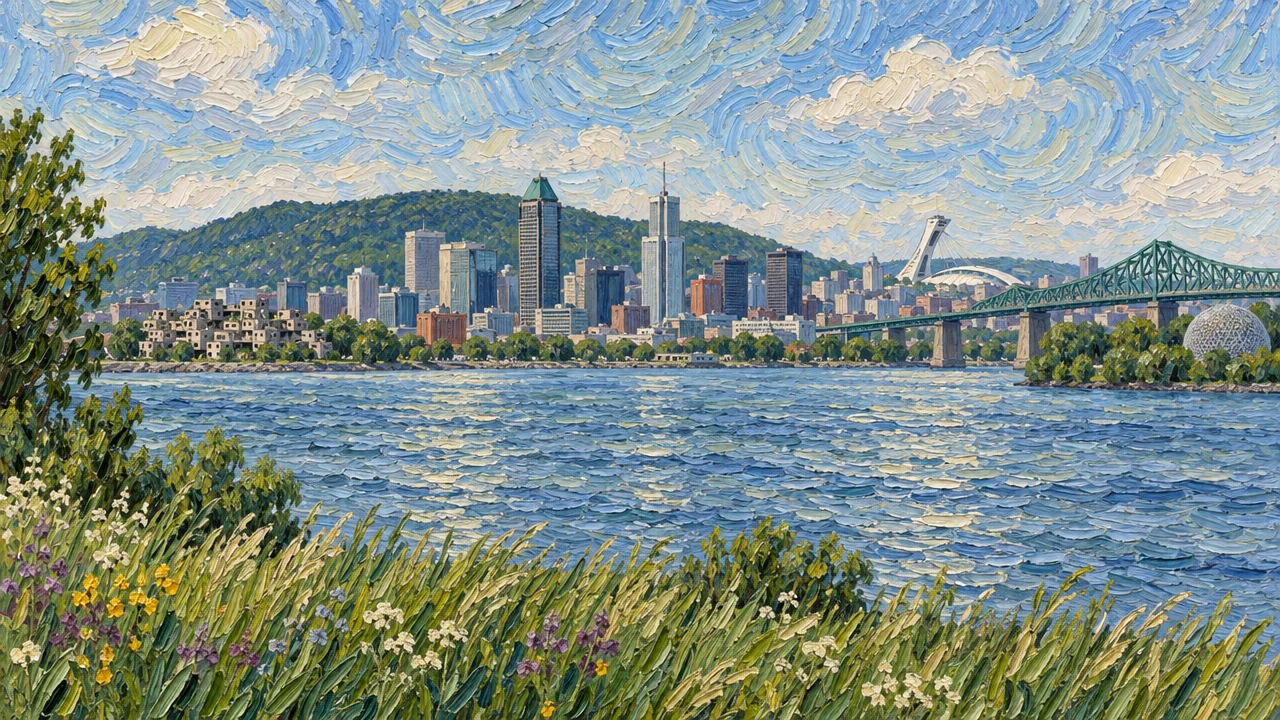
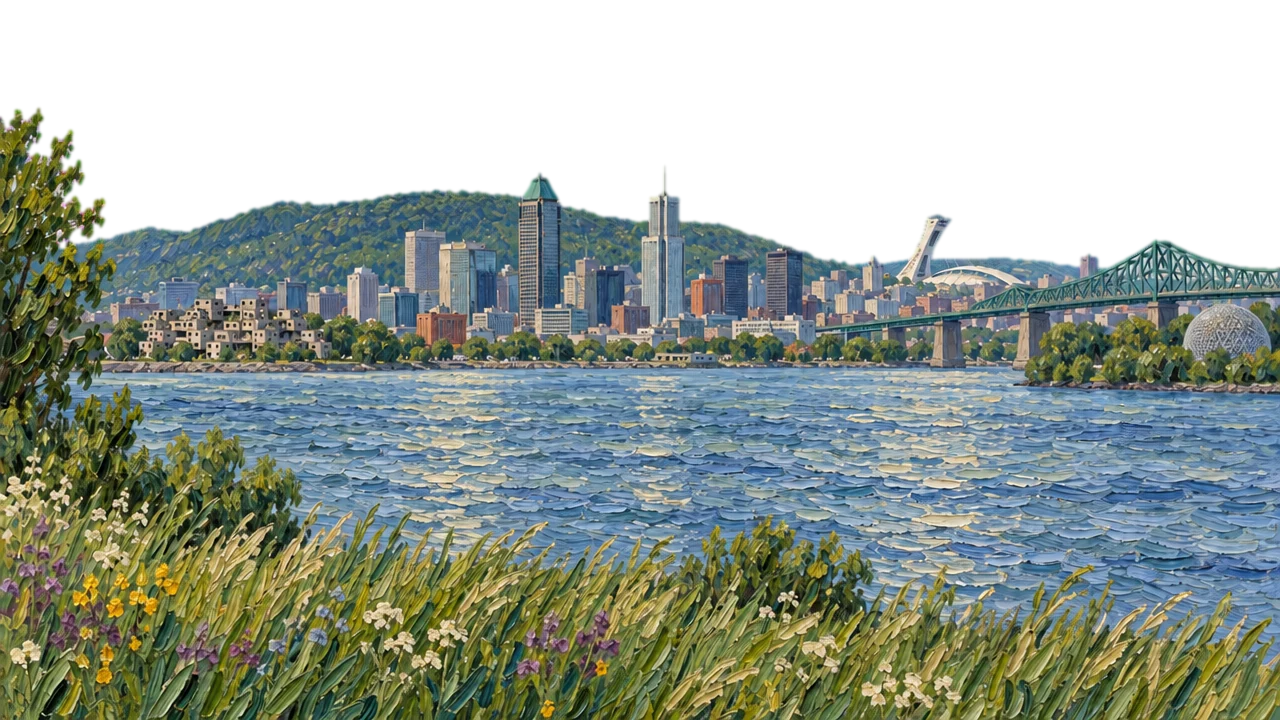
Live sky behind the Montreal painting; widget names only in settings
The city keeps its painting, but its sky is cut out and the live painted sky
(clouds, sun, moon, stars) shows through. The day painting takes the light of
the hour and hands over smoothly to the night painting; the river mirrors the
sky and live grass sways in front. Widget names now show only while the
widget's settings are open.

diff --git a/js/scene/engine.js b/js/scene/engine.js
@@ -105,6 +105,9 @@ uniform float uNight, uDay, uCover, uDrift, uT;
 uniform float uKind, uWave;
 uniform vec3 uPDay[13], uPNight[13];
 uniform float uGlow[13];
+uniform sampler2D uPlA, uPlB;            // painted plates: day and night, the sky cut out in alpha
+uniform float uImgAspect, uWarm, uPlFade;
+uniform vec4 uBand;                      // image v: sky ends, water starts, water ends, grass starts
 out vec4 o;
 vec3 overlay(vec3 b, float a){ return mix(2. * a * b, 1. - 2. * (1. - a) * (1. - b), step(.5, b)); }
 float fbm(vec2 p){ float v = 0., a = .5; for (int i = 0; i < 4; i++){ v += a * vnoise(p); p = p * 2.03 + 17.; a *= .5; } return v; }
@@ -121,6 +124,31 @@ vec3 orb(vec3 c, vec3 o, float R, vec2 p, float fr, vec3 a, vec3 b, vec3 e, vec3
   }
   return c;
 }
+vec3 skyCol(vec2 p, float y, float fr){
+  vec3 g = y < .42 ? mix(uS1, uS2, y / .42) : mix(uS2, uS3, clamp((y - .42) / .28, 0., 1.));
+  vec3 c = overlay(g, fr);
+  vec2 sc = floor(p / 38.); vec4 sh = hash4(sc + 5.1);
+  float star = step(.72, sh.z) * smoothstep(1.5 + sh.w, .2, length(p - (sc + .15 + sh.xy * .7) * 38.)) * (.65 + .35 * sin(uT * 2. + sh.w * 30.));
+  float R = clamp(uRes.x * .035, 34., 54.);
+  c = orb(c, uSun, R, p, fr, vec3(1., .84, .47), vec3(.97, .63, .27), vec3(.89, .41, .2), vec3(1., .74, .43) * .5);
+  c = orb(c, uMoon, R * .9, p, fr, vec3(1., .99, .93), vec3(.93, .9, .81), vec3(.78, .76, .67), vec3(1., .98, .88) * .16);
+  float mask = smoothstep(uRes.y * .64, uRes.y * .4, p.y);
+  if (mask > 0.){
+    vec2 cp = p - vec2(uDrift, 0.);
+    float thr = mix(.64, .3, uCover), d0 = fbm(cp / vec2(340., 110.));
+    if (d0 > thr - .1){
+      vec3 s = stroke(cp, vec2(46., 12.), 9.);
+      float a = smoothstep(thr, thr + .05 + uCover * .08, d0 + (s.x - .5) * .08) * mask;
+      float d1 = fbm((cp - vec2(0., 16.)) / vec2(340., 110.));
+      float shade = clamp((d0 - d1) * 4.5 + .62, 0., 1.);
+      vec3 light = mix(uS2 * 1.2 + .1, vec3(.98, .97, .95), uDay * .8), dark = mix(uS1 * 1.1, vec3(.62, .64, .7), uDay * .7);
+      c = mix(c, mix(dark, light, shade) * (.95 + s.x * .09), a * .92);
+      star *= 1. - a;
+    }
+  }
+  c += star * uNight * vec3(1., .98, .9);
+  return c;
+}
 void main(){
   vec4 f = texelFetch(uField, ivec2(gl_FragCoord.xy), 0);
   vec2 p = vec2(gl_FragCoord.x, uRes.y * uScale - gl_FragCoord.y) / uScale;
@@ -128,29 +156,41 @@ void main(){
   float code = floor(f.b * 255. + .5), m = mod(code, 16.), win = mod(floor(code / 16.), 2.), wat = floor(code / 32.);
   bool skyPix = uKind < .5 ? layer < .5 : m < .5;
   vec3 c;
-  if (skyPix){
-    vec3 g = y < .42 ? mix(uS1, uS2, y / .42) : mix(uS2, uS3, clamp((y - .42) / .28, 0., 1.));
-    c = overlay(g, f.r);
-    vec2 sc = floor(p / 38.); vec4 sh = hash4(sc + 5.1);
-    float star = step(.72, sh.z) * smoothstep(1.5 + sh.w, .2, length(p - (sc + .15 + sh.xy * .7) * 38.)) * (.65 + .35 * sin(uT * 2. + sh.w * 30.));
-    float R = clamp(uRes.x * .035, 34., 54.);
-    c = orb(c, uSun, R, p, f.r, vec3(1., .84, .47), vec3(.97, .63, .27), vec3(.89, .41, .2), vec3(1., .74, .43) * .5);
-    c = orb(c, uMoon, R * .9, p, f.r, vec3(1., .99, .93), vec3(.93, .9, .81), vec3(.78, .76, .67), vec3(1., .98, .88) * .16);
-    float mask = smoothstep(uRes.y * .64, uRes.y * .4, p.y);
-    if (mask > 0.){
-      vec2 cp = p - vec2(uDrift, 0.);
-      float thr = mix(.64, .3, uCover), d0 = fbm(cp / vec2(340., 110.));
-      if (d0 > thr - .1){
-        vec3 s = stroke(cp, vec2(46., 12.), 9.);
-        float a = smoothstep(thr, thr + .05 + uCover * .08, d0 + (s.x - .5) * .08) * mask;
-        float d1 = fbm((cp - vec2(0., 16.)) / vec2(340., 110.));
-        float shade = clamp((d0 - d1) * 4.5 + .62, 0., 1.);
-        vec3 light = mix(uS2 * 1.2 + .1, vec3(.98, .97, .95), uDay * .8), dark = mix(uS1 * 1.1, vec3(.62, .64, .7), uDay * .7);
-        c = mix(c, mix(dark, light, shade) * (.95 + s.x * .09), a * .92);
-        star *= 1. - a;
-      }
-    }
-    c += star * uNight * vec3(1., .98, .9);
+  if (uKind > 1.5){
+    // a painted plate covers the screen; where its alpha is clear the live sky shows through
+    float sa = uRes.x / uRes.y;
+    vec2 k = sa > uImgAspect ? vec2(1., uImgAspect / sa) : vec2(sa / uImgAspect, 1.);
+    vec2 uv = (p / uRes - .5) * k + vec2(.5, .5 + (1. - k.y) * .2);
+    float v = uv.y, t = uT;
+    // the river: inside its band, and only where the day painting is blue (not the bushes on the bank)
+    vec3 d0 = texture(uPlA, uv).rgb;
+    float watM = smoothstep(uBand.y, uBand.y + .02, v) * smoothstep(uBand.z, uBand.z - .03, v)
+               * smoothstep(.0, .08, d0.b - max(d0.r, d0.g) + .03);
+    float rip = sin(v * 380. - t * 2.2 + vnoise(uv * vec2(14., 60.)) * 6.) * .5 + (vnoise(vec2(uv.x * 40. - t * .5 * (.4 + uWave), v * 160.)) - .5);
+    uv += watM * vec2(rip * .003 * (.6 + uWave), rip * .001);
+    float gr = clamp((v - uBand.w) / (1. - uBand.w), 0., 1.);
+    float gust = sin(t * 1.7 + uv.x * 9.) * .55 + sin(t * .61 + uv.x * 3.1) * .45;
+    uv.x += gr * gr * (uWave * (.35 + .45 * gust) + .06 * sin(t * 1.3 + uv.x * 4.)) * .006;   // a gentle sway; the live blades carry the motion
+    uv = clamp(uv, vec2(.001), vec2(.999));
+    vec4 A = texture(uPlA, uv), B = texture(uPlB, uv);
+    float nw = smoothstep(.05, .75, uNight);
+    float land = smoothstep(.25, .75, mix(A.a, B.a, nw)) * uPlFade;
+    // the day painting follows the light of the hour; the night painting takes over as the sky darkens
+    vec3 tint = uS3 / max(.001, max(uS3.r, max(uS3.g, uS3.b)));
+    vec3 dc = A.rgb * mix(vec3(1.), tint, uWarm * .5);
+    float dl = dot(dc, vec3(.2126, .7152, .0722));
+    vec3 dayC = mix(vec3(dl), dc, uSat) * (.6 + .4 * uLight);   // softer than the meadow: the painting stays readable at dusk
+    vec3 lc = mix(dayC, B.rgb, nw);
+    // the river also mirrors the live sky, so it moves with the clouds and colours of the hour
+    float yy = clamp(.5 - (v - uBand.y) * 1.2, 0., 1.);
+    vec3 g = yy < .42 ? mix(uS1, uS2, yy / .42) : mix(uS2, uS3, clamp((yy - .42) / .28, 0., 1.));
+    float r2 = vnoise(vec2(p.x / 23. - t * .6, p.y / 1.6));
+    lc = mix(lc, g * (.75 + r2 * .3), watM * .25);
+    lc += watM * smoothstep(.8, .96, vnoise(vec2(uv.x * 260. + t * 1.4, v * 700.))) * .1 * mix(vec3(1., .95, .8), vec3(.9, .85, .6), uNight);
+    c = land > .001 ? lc : vec3(0.);
+    if (land < .999) c = mix(skyCol(p, y, f.r), lc, land);
+  } else if (skyPix){
+    c = skyCol(p, y, f.r);
   } else if (uKind < .5){
     vec3 base = layer < 1.5 ? vec3(.463, .573, .518) : layer < 2.5 ? vec3(.259, .369, .251) : vec3(.18, .29, .133);
     c = mix(base + (f.g - .5) * .22, vec3(.78, .75, .59), f.a * .07);
@@ -188,41 +228,6 @@ void main(){
     }
   }
   c = grade(c, p.y) + (hash1(gl_FragCoord.xy) - .5) * .03;
-  o = vec4(c, 1.);
-}`;
-
-// a painted plate: two images of the same view (say day and sunset) faded into each other, with the sky,
-// the river and the grass moved a little by time and wind. uBand: sky ends, water starts, water ends, grass starts (image v)
-const FS_PLATE = GLSL_COMMON + `
-uniform sampler2D uA, uB;
-uniform float uMix, uImgAspect, uT, uWind, uDir, uFade;
-uniform vec4 uBand;
-uniform vec3 uBg;
-out vec4 o;
-void main(){
-  vec2 p = vec2(gl_FragCoord.x, uRes.y * uScale - gl_FragCoord.y) / uScale;
-  // cover the screen, centred, a touch toward the bottom so the grass is never cut
-  float sa = uRes.x / uRes.y;
-  vec2 k = sa > uImgAspect ? vec2(1., uImgAspect / sa) : vec2(sa / uImgAspect, 1.);
-  vec2 uv = (p / uRes - .5) * k + vec2(.5, .5 + (1. - k.y) * .2);
-  float v = uv.y, t = uT;
-  // sky: the brush strokes breathe and drift very slowly
-  float skyM = smoothstep(uBand.x, uBand.x - .07, v);
-  uv += skyM * (vec2(vnoise(uv * vec2(5., 9.) + vec2(t * .05, 0.)), vnoise(uv * vec2(6., 8.) + 11. - vec2(0., t * .04))) - .5) * .006;
-  // water: ripples that run with the wind
-  float watM = smoothstep(uBand.y, uBand.y + .02, v) * smoothstep(uBand.z, uBand.z - .03, v);
-  float rip = sin(v * 420. - t * 1.6 + vnoise(uv * vec2(14., 60.)) * 6.) * .5 + (vnoise(vec2(uv.x * 40. - t * .35 * (.4 + uWind), v * 160.)) - .5);
-  uv += watM * vec2(rip * .0016 * (.6 + uWind), rip * .0007);
-  // grass: sways in gusts, more toward the tips at the bottom of the picture
-  float gr = clamp((v - uBand.w) / (1. - uBand.w), 0., 1.);
-  float gust = sin(t * 1.7 + uv.x * 9.) * .55 + sin(t * .61 + uv.x * 3.1) * .45;
-  uv.x += gr * (1. - gr * .55) * (uDir * uWind * (.35 + .45 * gust) + .08 * sin(t * 1.3 + uv.x * 23.)) * .012;
-  uv = clamp(uv, vec2(.001), vec2(.999));
-  vec3 c = mix(texture(uA, uv).rgb, texture(uB, uv).rgb, uMix);
-  // glints on the water
-  float glint = smoothstep(.78, .95, vnoise(vec2(uv.x * 260. + t * 1.2, v * 700.))) * watM;
-  c += glint * .12 * vec3(1., .96, .85) * dot(c, vec3(.33));
-  c = grade(mix(uBg, c, uFade), p.y) + (hash1(gl_FragCoord.xy) - .5) * .02;
   o = vec4(c, 1.);
 }`;
 
@@ -321,7 +326,7 @@ export function createEngine(cv){
   };
   let P;
   try{
-    P = {field: program(VS_FULL, FS_FIELD), fieldMask: program(VS_FULL, FS_FIELD_MASK), main: program(VS_FULL, FS_MAIN), blade: program(VS_BLADE, FS_BLADE), dab: program(VS_DAB, FS_DAB), fall: program(VS_FALL, FS_FALL), plate: program(VS_FULL, FS_PLATE)};
+    P = {field: program(VS_FULL, FS_FIELD), fieldMask: program(VS_FULL, FS_FIELD_MASK), main: program(VS_FULL, FS_MAIN), blade: program(VS_BLADE, FS_BLADE), dab: program(VS_DAB, FS_DAB), fall: program(VS_FALL, FS_FALL)};
   }catch(e){ console.warn('Dayscape: WebGL shaders failed, showing the plain sky.', e); return null; }
 
   const buf = (data, usage = gl.STATIC_DRAW) => { const b = gl.createBuffer(); gl.bindBuffer(gl.ARRAY_BUFFER, b); gl.bufferData(gl.ARRAY_BUFFER, data, usage); return b; };
@@ -343,7 +348,6 @@ export function createEngine(cv){
   let fieldTex = null, W = 0, H = 0, S = 1, cw = 0, ch = 0, scene = null, palette = null;
   // painted plates: one texture per plate name, loaded when the scene is set; mix says which two show
   let plates = {}, plateFor = null, plateFade = 0;
-  const mix = {a: 'day', b: 'day', t: 0};
   function loadPlates(s){
     for (const t of Object.values(plates)) gl.deleteTexture(t);
     plates = {}; plateFade = 0; plateFor = s;
@@ -365,8 +369,17 @@ export function createEngine(cv){
       img.src = url;
     }
   }
+  const imgToY = v => {
+    const ia = scene?.aspect || 16 / 9, sa = W / H, ky = sa > ia ? ia / sa : 1;
+    return ((v - .5 - (1 - ky) * .2) / ky + .5) * H;
+  };
+  // live grass fills the painted grass band, thinner at its top edge
+  const plateGrass = (x, h) => { const b = scene?.bands?.grass; return b == null ? null : imgToY(b + .04) + Math.sin(x / 70) * 6; };
   const plateTex = name => plates[name] || plates.day || Object.values(plates)[0];
   const fbo = gl.createFramebuffer();
+  const blank = gl.createTexture();
+  gl.bindTexture(gl.TEXTURE_2D, blank);
+  gl.texImage2D(gl.TEXTURE_2D, 0, gl.RGBA8, 1, 1, 0, gl.RGBA, gl.UNSIGNED_BYTE, new Uint8Array(4));
 
   function upload(blades, dabs){
     blades.sort((a, b) => a[1] - b[1]);
@@ -416,7 +429,6 @@ export function createEngine(cv){
   // bake the stroke field for the current size and scene (the mask path arrives with the city scenes)
   function bake(){
     if (!W) return;
-    if (scene?.kind === 'plates'){ upload([], []); palette = paletteUniforms(null); return; }
     if (fieldTex) gl.deleteTexture(fieldTex);
     fieldTex = gl.createTexture();
     gl.bindTexture(gl.TEXTURE_2D, fieldTex);
@@ -426,6 +438,7 @@ export function createEngine(cv){
     gl.framebufferTexture2D(gl.FRAMEBUFFER, gl.COLOR_ATTACHMENT0, gl.TEXTURE_2D, fieldTex, 0);
     gl.viewport(0, 0, cw, ch);
     gl.disable(gl.BLEND);   // the last frame leaves blending on; the field must be written as-is
+    const isPlate = scene?.kind === 'plates';
     const mask = scene?.kind === 'mask' ? maskTexture() : null;
     if (mask){
       const f = P.fieldMask; common(f);
@@ -439,8 +452,9 @@ export function createEngine(cv){
       common(P.field); gl.bindVertexArray(empty); gl.drawArrays(gl.TRIANGLES, 0, 3);
     }
     gl.bindFramebuffer(gl.FRAMEBUFFER, null);
-    buildGrass(mask ? (x, h) => scene.grass?.(x, h, W) ?? null : meaY);
+    buildGrass(isPlate ? plateGrass : mask ? (x, h) => scene.grass?.(x, h, W) ?? null : meaY);
     palette = paletteUniforms(mask ? scene.palette : null);
+    if (isPlate) palette.kind = 2;
   }
 
   // the scene's material mask, drawn in CSS pixels and cleaned so every pixel holds exactly one material
@@ -497,28 +511,11 @@ export function createEngine(cv){
     }
   }
 
-  function drawPlate(dt){
-    const A = plateTex(mix.a), B = plateTex(mix.b) || A;
-    if (A) plateFade = Math.min(1, plateFade + (dt ? dt / .8 : 1));
-    const pr = P.plate; common(pr);
-    gl.activeTexture(gl.TEXTURE0); gl.bindTexture(gl.TEXTURE_2D, A || null); gl.uniform1i(pr.u('uA'), 0);
-    gl.activeTexture(gl.TEXTURE1); gl.bindTexture(gl.TEXTURE_2D, B || null); gl.uniform1i(pr.u('uB'), 1);
-    gl.activeTexture(gl.TEXTURE0);
-    const b = scene.bands || {};
-    gl.uniform4f(pr.u('uBand'), b.sky ?? .25, b.water?.[0] ?? 2, b.water?.[1] ?? 2, b.grass ?? 2);
-    gl.uniform1f(pr.u('uMix'), mix.t); gl.uniform1f(pr.u('uImgAspect'), scene.aspect || 16 / 9);
-    gl.uniform1f(pr.u('uT'), live.t); gl.uniform1f(pr.u('uWind'), live.wind); gl.uniform1f(pr.u('uDir'), live.dir);
-    gl.uniform1f(pr.u('uFade'), A ? plateFade : 0);
-    gl.uniform3fv(pr.u('uBg'), sky.s2.map(v => v / 255));
-    gl.bindVertexArray(empty); gl.drawArrays(gl.TRIANGLES, 0, 3);
-  }
-
   function draw(dt){
-    const isPlate = scene?.kind === 'plates';
-    if (!fieldTex && !isPlate) return;
+    if (!fieldTex) return;
     gl.viewport(0, 0, cw, ch);
     gl.disable(gl.BLEND);
-    if (isPlate) drawPlate(dt); else {
+    {
     const m = P.main; common(m);
     gl.activeTexture(gl.TEXTURE0); gl.bindTexture(gl.TEXTURE_2D, fieldTex); gl.uniform1i(m.u('uField'), 0);
     gl.uniform3fv(m.u('uS1'), sky.s1.map(v => v / 255)); gl.uniform3fv(m.u('uS2'), sky.s2.map(v => v / 255)); gl.uniform3fv(m.u('uS3'), sky.s3.map(v => v / 255));
@@ -526,7 +523,18 @@ export function createEngine(cv){
     gl.uniform1f(m.u('uNight'), sky.night); gl.uniform1f(m.u('uDay'), sky.day);
     gl.uniform1f(m.u('uCover'), live.cover); gl.uniform1f(m.u('uDrift'), live.drift); gl.uniform1f(m.u('uT'), live.rt);
     gl.uniform1f(m.u('uKind'), palette.kind); gl.uniform1f(m.u('uWave'), live.wind);
-    if (palette.kind){ gl.uniform3fv(m.u('uPDay'), palette.day); gl.uniform3fv(m.u('uPNight'), palette.night); gl.uniform1fv(m.u('uGlow'), palette.glow); }
+    if (palette.kind === 2){
+      const A = plateTex('day'), B = plateTex('night') || A;
+      if (A) plateFade = Math.min(1, plateFade + (dt ? dt / .8 : 1));
+      gl.activeTexture(gl.TEXTURE1); gl.bindTexture(gl.TEXTURE_2D, A || blank); gl.uniform1i(m.u('uPlA'), 1);
+      gl.activeTexture(gl.TEXTURE2); gl.bindTexture(gl.TEXTURE_2D, B || blank); gl.uniform1i(m.u('uPlB'), 2);
+      gl.activeTexture(gl.TEXTURE0);
+      const b = scene.bands || {};
+      gl.uniform4f(m.u('uBand'), b.sky ?? .25, b.water?.[0] ?? 2, b.water?.[1] ?? 2, b.grass ?? 2);
+      gl.uniform1f(m.u('uImgAspect'), scene.aspect || 16 / 9); gl.uniform1f(m.u('uPlFade'), A ? plateFade : 0);
+      // warm light in the hours around sunrise and sunset
+      gl.uniform1f(m.u('uWarm'), Math.max(0, 1 - Math.abs(sky.day - .45) / .45) * (1 - sky.night));
+    } else if (palette.kind){ gl.uniform3fv(m.u('uPDay'), palette.day); gl.uniform3fv(m.u('uPNight'), palette.night); gl.uniform1fv(m.u('uGlow'), palette.glow); }
     gl.bindVertexArray(empty); gl.drawArrays(gl.TRIANGLES, 0, 3);
     }
 
@@ -549,8 +557,6 @@ export function createEngine(cv){
     sky, live, gl,
     get scene(){ return scene; },
     setScene(s){ scene = s; if (s?.kind === 'plates') loadPlates(s); bake(); },
-    /** Which painted plates show: {a, b, t} from plateMix. */
-    setPlates(m){ Object.assign(mix, m); },
     resize,
     /** Advance by dt seconds (0 = still) and paint one frame. */
     frame(dt){ step(dt, dt === 0); draw(dt); },

diff --git a/js/scene/background.js b/js/scene/background.js
@@ -3,7 +3,6 @@ import { $, esc } from '../util.js';
 import { localParts, fmtTime } from '../time.js';
 import { paintSky, rgb, lum } from './sky.js';
 import { pickScene } from './pick.js';
-import { plateMix, sunHours } from './plates.js';
 import meadow from './scenes/meadow.js';
 import montreal from './scenes/montreal.js';
 import { applyWeather, fmtTemp } from '../weather.js';
@@ -18,7 +17,7 @@ export const sceneHome = (scene, ctx) => scene.place || ctx.places.home();
 
 export function startBackground(ctx, engine){
   const st = () => ctx.state;
-  let scene = null, sun = {rise: NaN, set: NaN}, sunFor = null, captionKey = '', menu = null, fc = null, fcFor = '', wxKey = '';
+  let scene = null, captionKey = '', menu = null, fc = null, fcFor = '', wxKey = '';
 
   // the forecast for whatever place the scene shows; refreshed by the caller every 15 minutes
   async function loadForecast(){
@@ -32,7 +31,7 @@ export function startBackground(ctx, engine){
   const conditions = T => fc ? (ctx.clock.isLive() ? ctx.weather.current(fc) : ctx.weather.at(fc, T)) : null;
 
   function show(s){
-    scene = s; sunFor = null;
+    scene = s;
     st().bg = {...st().bg, last: s.id};
     ctx.save();
     engine?.setScene(s);
@@ -61,11 +60,6 @@ export function startBackground(ctx, engine){
     const sky = engine ? engine.sky : {};
     const veil = engine ? Math.min(.85, Math.max(0, (engine.live.coverT - .6) / .35)) : 0;
     paintSky(sky, hourFrac(T), veil);
-    if (engine && scene.kind === 'plates'){
-      const day = Math.floor(T / 36e5);   // sunrise and sunset change slowly: work them out once an hour
-      if (sunFor !== day){ sunFor = day; sun = sunHours(T, home); }
-      engine.setPlates(plateMix(hourFrac(T), sun.rise, sun.set));
-    }
     const root = document.documentElement.style;
     root.setProperty('--s1', rgb(sky.s1)); root.setProperty('--s2', rgb(sky.s2)); root.setProperty('--s3', rgb(sky.s3));
     document.body.classList.toggle('day', lum(sky.s2) > 0.62);

diff --git a/js/scene/scenes/montreal.js b/js/scene/scenes/montreal.js
@@ -1,5 +1,6 @@
-// Montreal from the south shore of the St. Lawrence: four impasto oil paintings of the same view
-// (morning, day, sunset, night), faded into each other by the real sun, with the sky, river and grass kept moving.
+// Montreal from the south shore of the St. Lawrence: a day and a night oil painting of the same view,
+// with the sky cut out. The engine paints a live sky behind the city, lights the day painting by the hour,
+// hands over to the night painting as the sky darkens, and keeps the river and the grass moving.
 const plate = name => `media/scenes/montreal-${name}.webp`;
 
 export default {
@@ -7,8 +8,8 @@ export default {
   name: 'Montreal',
   kind: 'plates',
   place: {name: 'Montreal', cc: 'ca', tz: 'America/Toronto', lat: 45.5017, lon: -73.5673},
-  plates: {morning: plate('morning'), day: plate('day'), sunset: plate('sunset'), night: plate('night')},
+  plates: {day: plate('day'), night: plate('night')},
   aspect: 16 / 9,
-  // in image height from the top: where the open sky ends, where the river runs, where the grass starts
-  bands: {sky: .2, water: [.53, .78], grass: .74},
+  // in image height from the top: where the river runs and where the grass starts
+  bands: {water: [.51, .79], grass: .73},
 };

diff --git a/js/board.js b/js/board.js
@@ -105,7 +105,7 @@ export function removeWidget(id){
 
 // ---------- the gear menu ----------
 let pop = null;
-export function closePop(){ pop?.remove(); pop = null; }
+export function closePop(){ pop?.remove(); pop = null; document.querySelectorAll('.widget.editing').forEach(e => e.classList.remove('editing')); }
 document.addEventListener('pointerdown', e => { if (pop && !pop.contains(e.target) && !e.target.closest('.w-gear')) closePop(); });
 document.addEventListener('keydown', e => { if (e.key === 'Escape') closePop(); });
 
@@ -143,6 +143,7 @@ export function openSettings(id){
     ${phone ? '<div class="pop-row"><button class="lnk" data-act="up">Move up</button><button class="lnk" data-act="down">Move down</button></div>' : ''}
     <button class="lnk danger" data-act="remove">Remove widget</button>`;
   document.body.append(pop);
+  m.el.classList.add('editing');   // the widget's name shows only while its settings are open
   const g = $('.w-gear', m.el).getBoundingClientRect(), pr = pop.getBoundingClientRect();
   pop.style.left = Math.max(8, Math.min(innerWidth - pr.width - 8, g.right - pr.width)) + 'px';
   pop.style.top = Math.max(8, Math.min(innerHeight - pr.height - 8, g.bottom + 6)) + 'px';

diff --git a/css/app.css b/css/app.css
@@ -60,8 +60,9 @@ body.day .bar{color:#13202B;text-shadow:0 1px 3px rgba(255,255,255,.55)}
 .widget.fresh{animation:fresh .9s ease-out}
 @keyframes fresh{0%{outline:3px solid var(--vermilion)}100%{outline:3px solid transparent}}
 .w-head{flex:none;display:flex;align-items:center;height:32px;padding:0 8px 0 16px;cursor:grab;touch-action:none;user-select:none}
+.widget.editing .w-name{opacity:1}
 .moving .w-head{cursor:grabbing}
-.w-name{font-size:12px;color:var(--muted);white-space:nowrap;overflow:hidden;text-overflow:ellipsis;margin-right:auto}
+.w-name{opacity:0;transition:opacity .15s;font-size:12px;color:var(--muted);white-space:nowrap;overflow:hidden;text-overflow:ellipsis;margin-right:auto}
 .w-gear{width:26px;height:26px;display:grid;place-items:center;border-radius:6px;color:var(--muted);opacity:0;transition:opacity .15s}
 .w-gear svg{width:15px;height:15px}
 .widget:hover .w-gear,.w-gear:focus-visible{opacity:1}

diff --git a/README.md b/README.md
@@ -37,7 +37,7 @@ Widgets come in clear glass by day and smoked glass at night. You can also fix t
 
 ## How it works
 
-Plain HTML, CSS and JavaScript modules, with no build step and no server. The background is drawn with WebGL2. The meadow is painted live in brush strokes. Each city is four impasto oil paintings of one view, for morning, day, sunset and night, that fade into each other with the real sunrise and sunset. The sky, the river and the grass keep moving in the wind, and rain and snow fall over everything. Your board, places and notes live in your browser's local storage. Settings → Backup saves them to a file you can restore elsewhere.
+Plain HTML, CSS and JavaScript modules, with no build step and no server. The background is drawn with WebGL2. The meadow is painted live in brush strokes. Each city is an oil painting of one view, by day and by night, with its sky cut out: a live painted sky with drifting clouds, the sun, the moon and stars shows behind it, the city takes the light of the hour, the river mirrors the sky and the grass moves in the wind. Rain and snow fall over everything. Your board, places and notes live in your browser's local storage. Settings → Backup saves them to a file you can restore elsewhere.
 
 ## Run it locally
 
